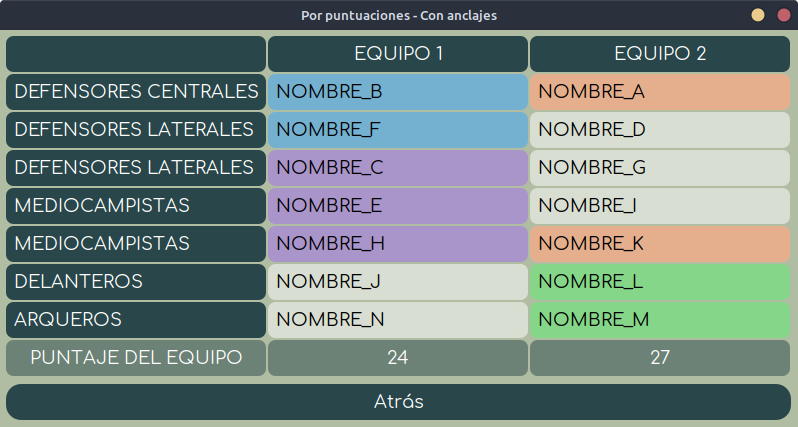
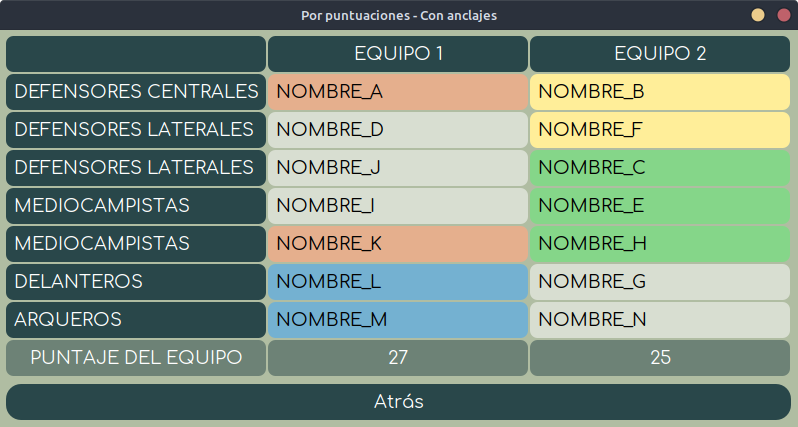
update readme, change anchorages colors, update screenshots

diff --git a/src/main/java/armameeldoparti/utils/common/Constants.java b/src/main/java/armameeldoparti/utils/common/Constants.java
@@ -58,10 +58,10 @@ public final class Constants {
   private static final String HEX_CODE_GREEN_LIGHT = "#b0bda2";
   private static final String HEX_CODE_GREEN_LIGHT_WHITE = "#d8ded1";
   private static final String HEX_CODE_ANCHORAGE_COLOR_1 = "#e5af8d";
-  private static final String HEX_CODE_ANCHORAGE_COLOR_2 = "#74b1d1";
-  private static final String HEX_CODE_ANCHORAGE_COLOR_3 = "#a995c9";
-  private static final String HEX_CODE_ANCHORAGE_COLOR_4 = "#85d689";
-  private static final String HEX_CODE_ANCHORAGE_COLOR_5 = "#ffee99";
+  private static final String HEX_CODE_ANCHORAGE_COLOR_2 = "#ffee99";
+  private static final String HEX_CODE_ANCHORAGE_COLOR_3 = "#85d689";
+  private static final String HEX_CODE_ANCHORAGE_COLOR_4 = "#74b1d1";
+  private static final String HEX_CODE_ANCHORAGE_COLOR_5 = "#a995c9";
   private static final String HEX_CODE_ANCHORAGE_COLOR_6 = "#f27c7c";
   private static final String MIG_LAYOUT_ALIGN = "align";
   private static final String MSG_ERROR_BROWSER = "ERROR DE CONEXIÓN CON NAVEGADOR WEB";

diff --git a/README.md b/README.md
@@ -5,7 +5,7 @@
 [![buildBadge](https://github.com/akmsw/armame-el-doparti/actions/workflows/maven.yml/badge.svg?branch=develop-v3.0)](https://github.com/akmsw/armame-el-doparti/actions/workflows/maven.yml)
 [![issuesBadge](https://img.shields.io/github/issues/akmsw/armame-el-doparti.svg?logo=github)](https://github.com/akmsw/armame-el-doparti/issues)
 
-[![checkStyleBadge](https://img.shields.io/badge/checkstyle%2010.12.1-passing-brightgreen)](https://checkstyle.sourceforge.io/)
+[![checkStyleBadge](https://img.shields.io/badge/checkstyle%2010.12.2-passing-brightgreen)](https://checkstyle.sourceforge.io/)
 [![sonarLintBadge](https://img.shields.io/badge/sonarlint-3-yellow?logo=sonarlint)](https://www.sonarlint.org/)
 [![jUnit5Badge](https://img.shields.io/badge/junit%205.10.0-passing-brightgreen?logo=junit5)](https://junit.org/junit5/)
 
